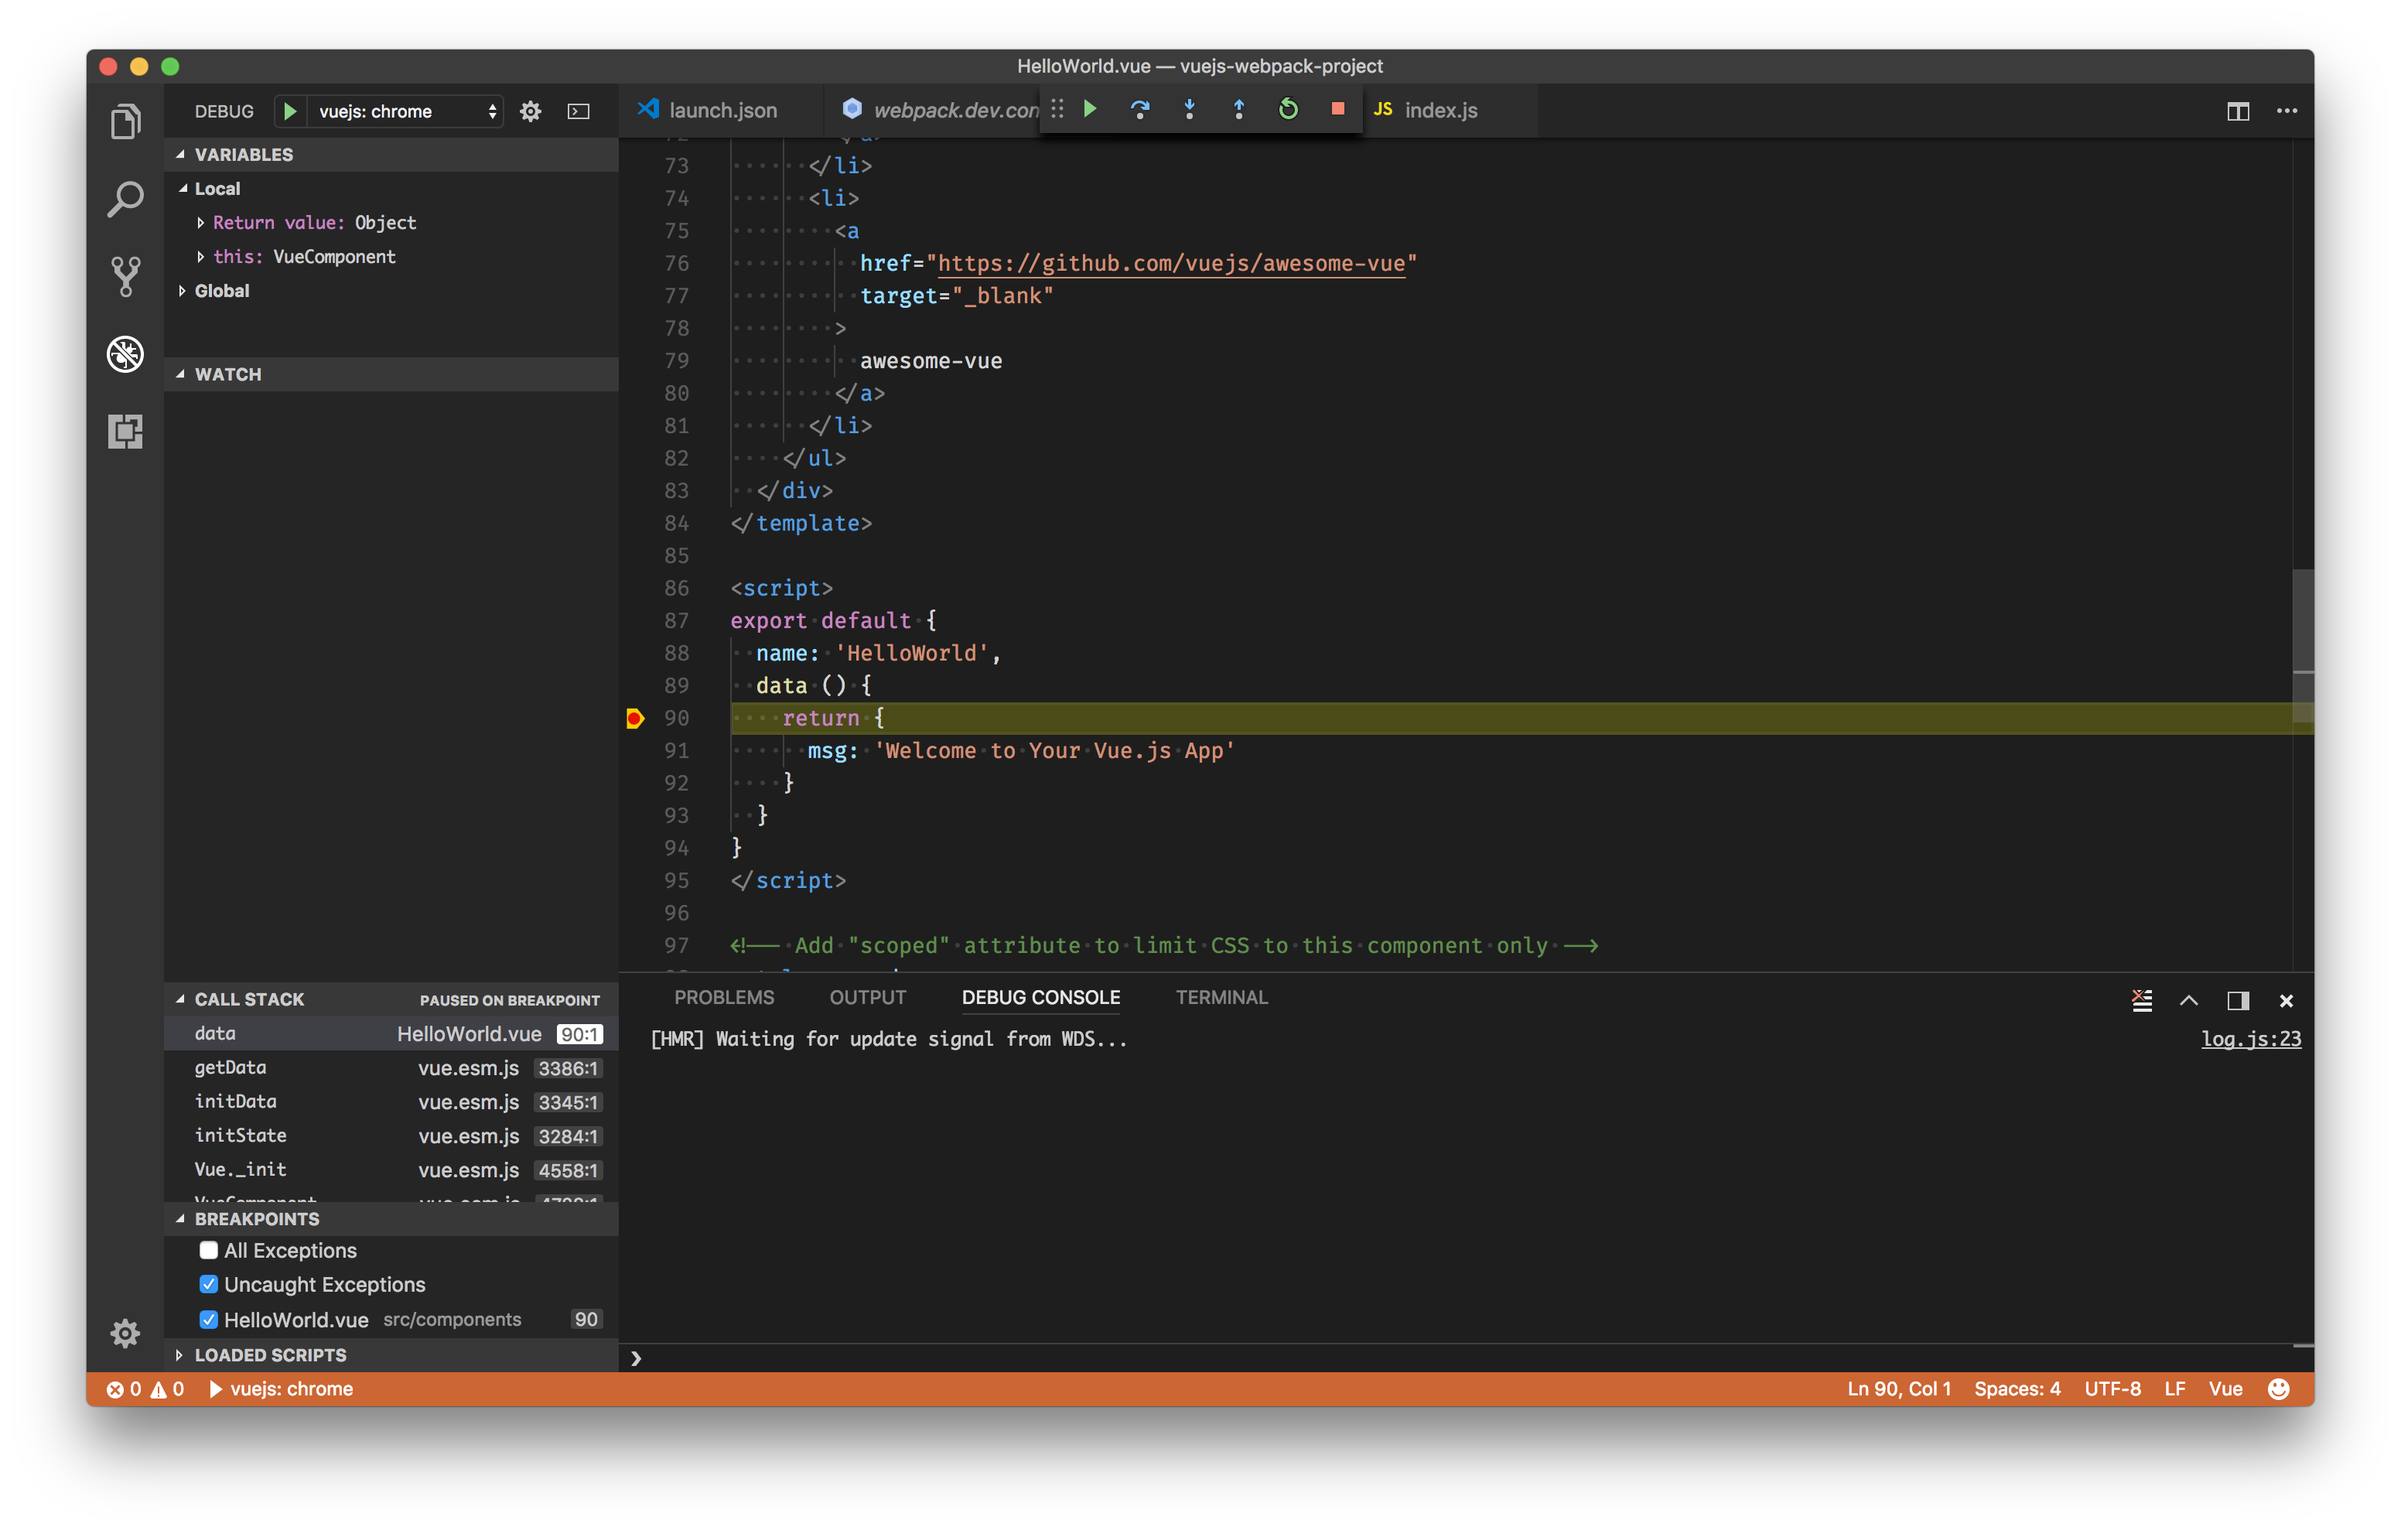
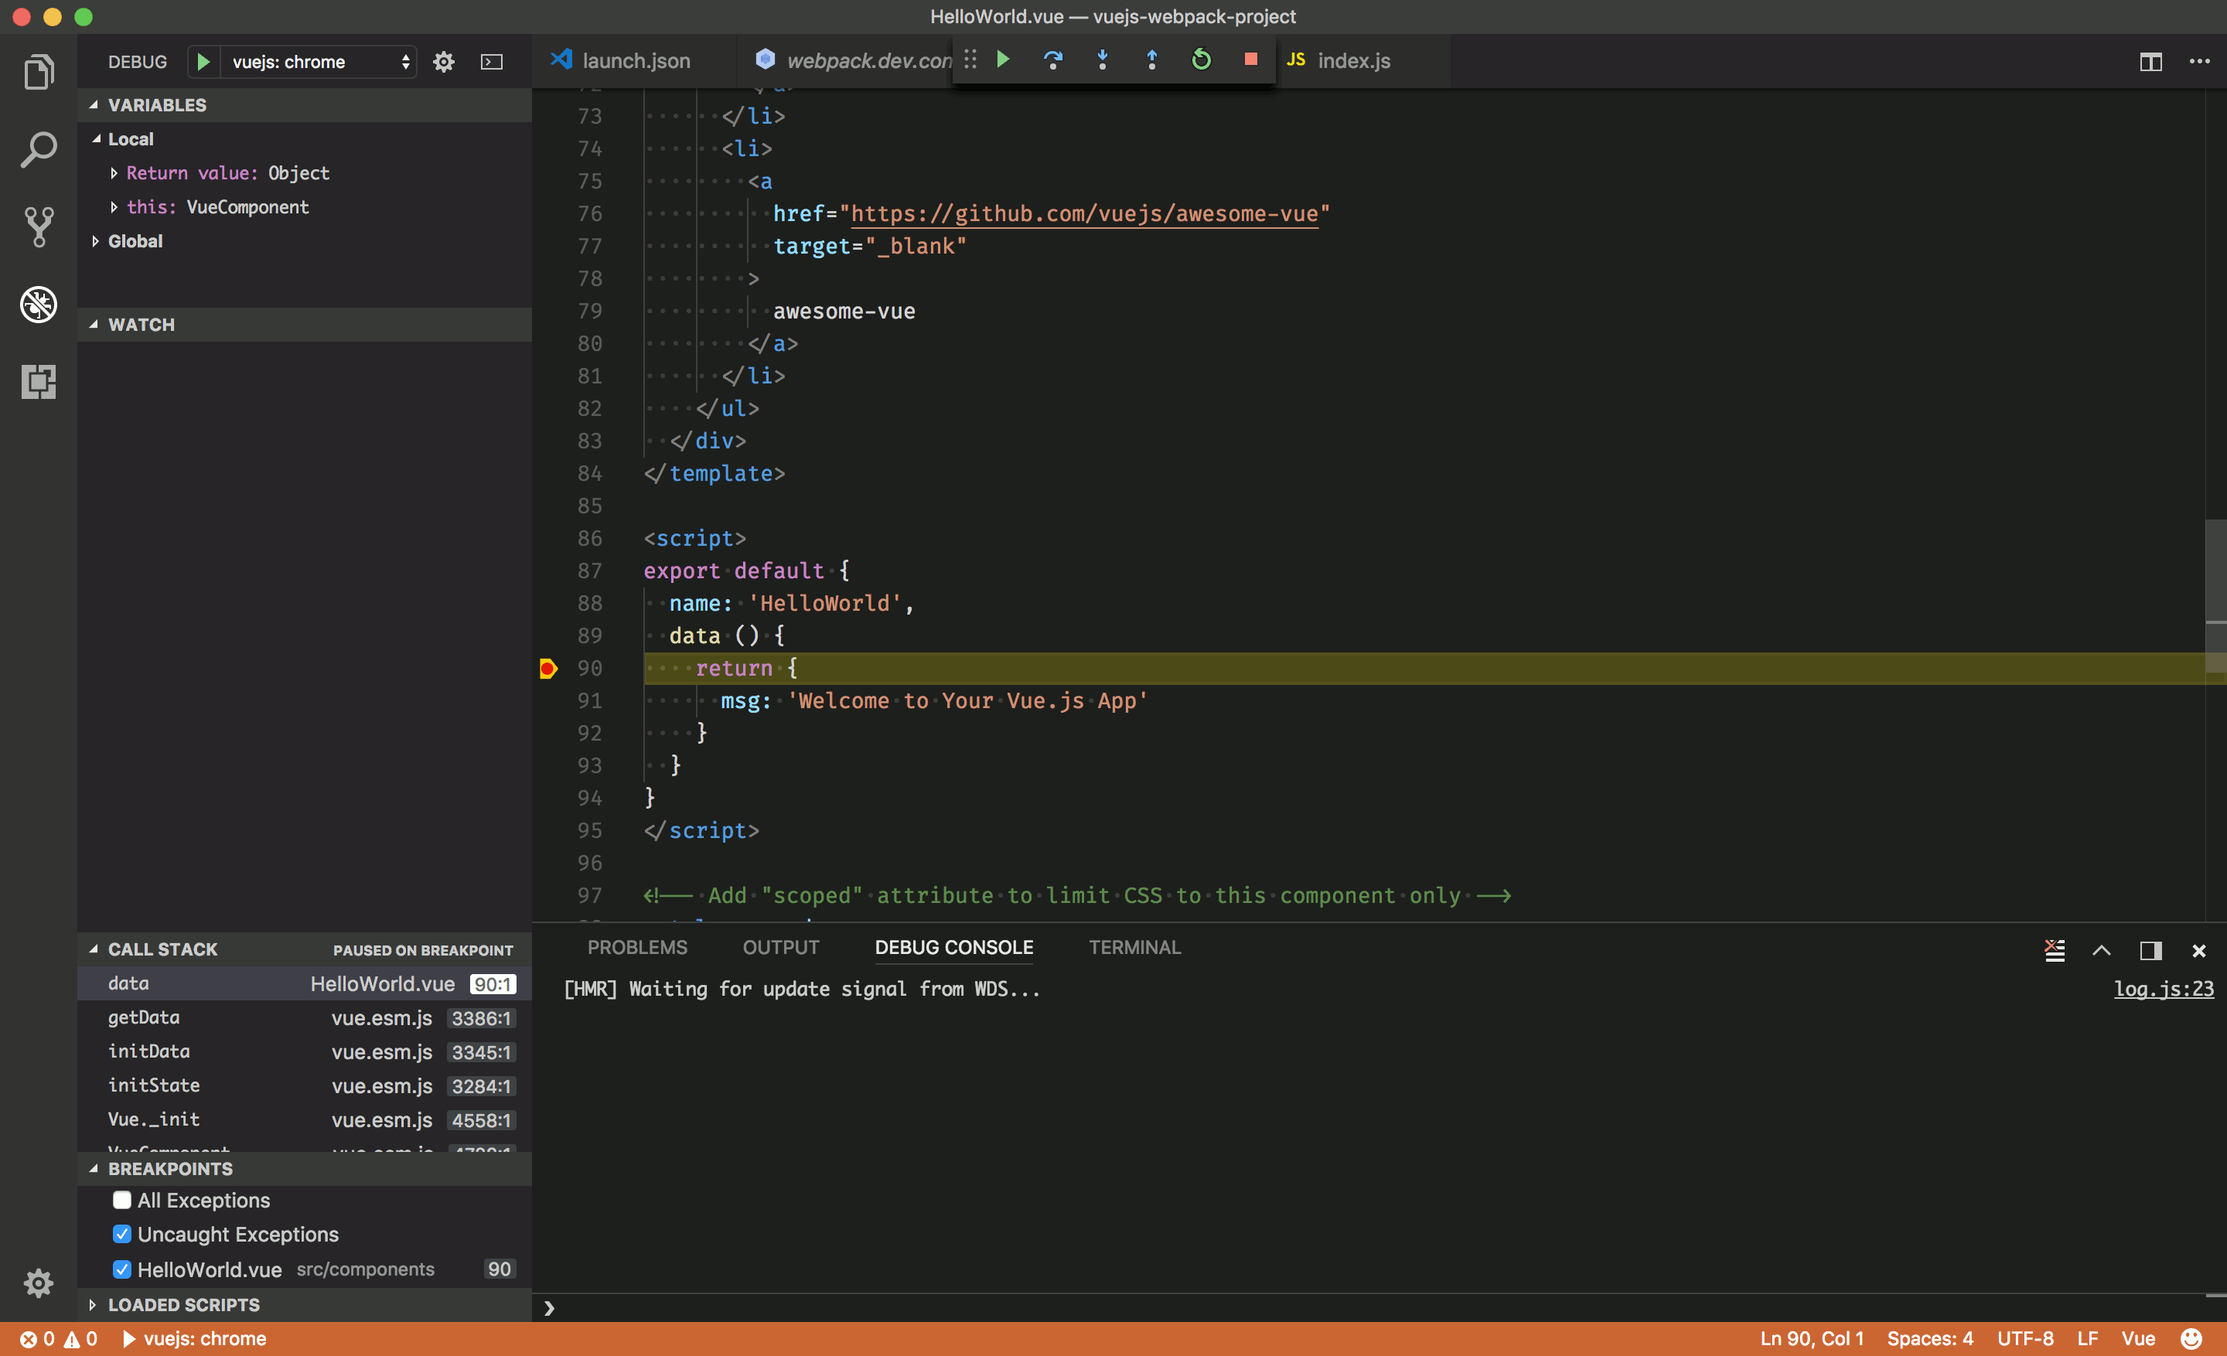
chore: edit screenshots to reduce file size (#1102)

Changed region(s): [[0.0, 0.0, 1.0, 1.0]]

diff --git a/src/guide/single-file-component.md b/src/guide/single-file-component.md
@@ -15,7 +15,7 @@ All of these are solved by **single-file components** with a `.vue` extension, m
 
 Here's an example of a file we'll call `Hello.vue`:
 
-<a href="https://codepen.io/team/Vue/pen/3de13b5cd0133df4ecf307b6cf2c5f94" target="_blank" rel="noopener noreferrer"><img src="/images/sfc.png" width="403" alt="Single-file component example (click for code as text)" style="display: block; margin: 15px auto; max-width: 100%"></a>
+<div style="padding: 10px 0 30px"><a href="https://codepen.io/team/Vue/pen/3de13b5cd0133df4ecf307b6cf2c5f94" target="_blank" rel="noopener noreferrer" title="Click for code as text"><img src="/images/sfc.png" width="292" alt="Single-file component example (click for code as text)" style="border-radius: 5px; box-shadow: 0 13px 20px rgb(0 0 0 / 50%); margin: 0 auto; display: block;"></a></div>
 
 Now we get:
 
@@ -25,7 +25,7 @@ Now we get:
 
 As promised, we can also use preprocessors such as Pug, Babel (with ES2015 modules), and Stylus for cleaner and more feature-rich components.
 
-<a href="https://codesandbox.io/s/vue-single-file-component-with-pre-processors-mr3ik?file=/src/App.vue" target="_blank" rel="noopener noreferrer"><img src="/images/sfc-with-preprocessors.png" width="563" alt="Single-file component with pre-processors example (click for code as text)" style="display: block; margin: 15px auto; max-width: 100%"></a>
+<div style="padding: 10px 0 30px"><a href="https://codesandbox.io/s/vue-single-file-component-with-pre-processors-mr3ik?file=/src/App.vue" target="_blank" rel="noopener noreferrer" title="Click for code as text"><img src="/images/sfc-with-preprocessors.png" width="452" alt="Single-file component with pre-processors example (click for code as text)" style="border-radius: 5px; box-shadow: 0 13px 20px rgb(0 0 0 / 50%); margin: 0 auto; display: block;"></a></div>
 
 These specific languages are only examples. You could as easily use TypeScript, SCSS, PostCSS, or whatever other preprocessors that help you be productive. If using Webpack with `vue-loader`, it also has first-class support for CSS Modules.
 

diff --git a/src/cookbook/debugging-in-vscode.md b/src/cookbook/debugging-in-vscode.md
@@ -41,7 +41,7 @@ We're assuming the port to be `8080` here. If it's not the case (for instance, i
 
 Click on the Debugging icon in the Activity Bar to bring up the Debug view, then click on the gear icon to configure a launch.json file, selecting **Chrome/Firefox: Launch** as the environment. Replace content of the generated launch.json with the corresponding configuration:
 
-![Add Chrome Configuration](/images/config_add.png)
+<div style="padding: 10px 25px 30px"><img src="/images/config_add.png" alt="Add Chrome Configuration" style="width: 690px; border-radius: 3px; box-shadow: 0 10px 15px rgb(0 0 0 / 50%)"></div>
 
 ```json
 {
@@ -74,7 +74,8 @@ Click on the Debugging icon in the Activity Bar to bring up the Debug view, then
 
 1.  Set a breakpoint in **src/components/HelloWorld.vue** on `line 90` where the `data` function returns a string.
 
-![Breakpoint Renderer](/images/breakpoint_set.png)
+<div style="padding: 10px 25px 30px"><img src="/images/breakpoint_set.png" alt="Breakpoint Renderer" style="width: 690px; border-radius: 3px; box-shadow: 0 10px 15px rgb(0 0 0 / 50%)"></div>
+
 
 2.  Open your favorite terminal at the root folder and serve the app using Vue CLI:
 
@@ -86,7 +87,7 @@ npm run serve
 
 4.  Your breakpoint should now be hit as a new browser instance opens `http://localhost:8080`.
 
-![Breakpoint Hit](/images/breakpoint_hit.png)
+<div style="padding: 10px 25px 30px"><img src="/images/breakpoint_hit.png" alt="Breakpoint Hit" style="width: 690px; border-radius: 3px; box-shadow: 0 10px 15px rgb(0 0 0 / 50%)"></div>
 
 ## Alternative Patterns
 
